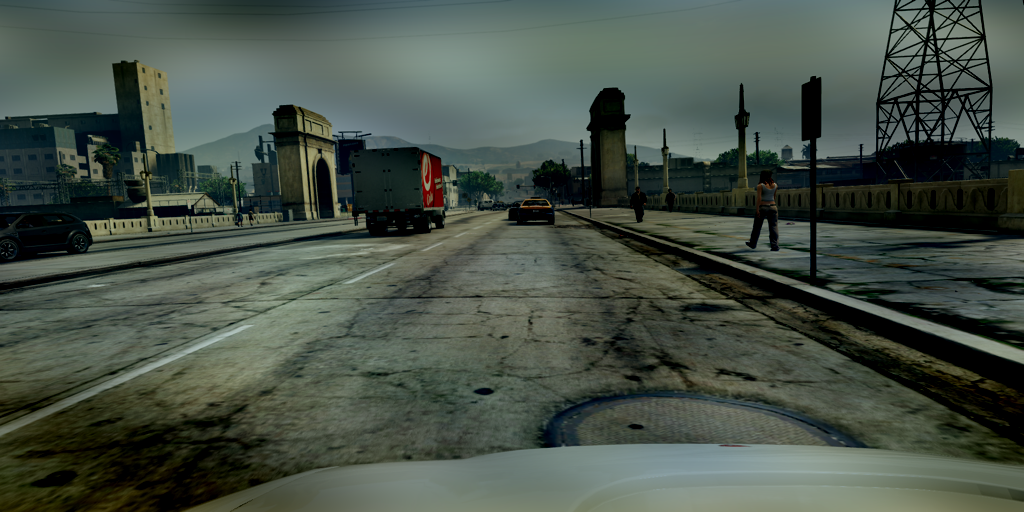
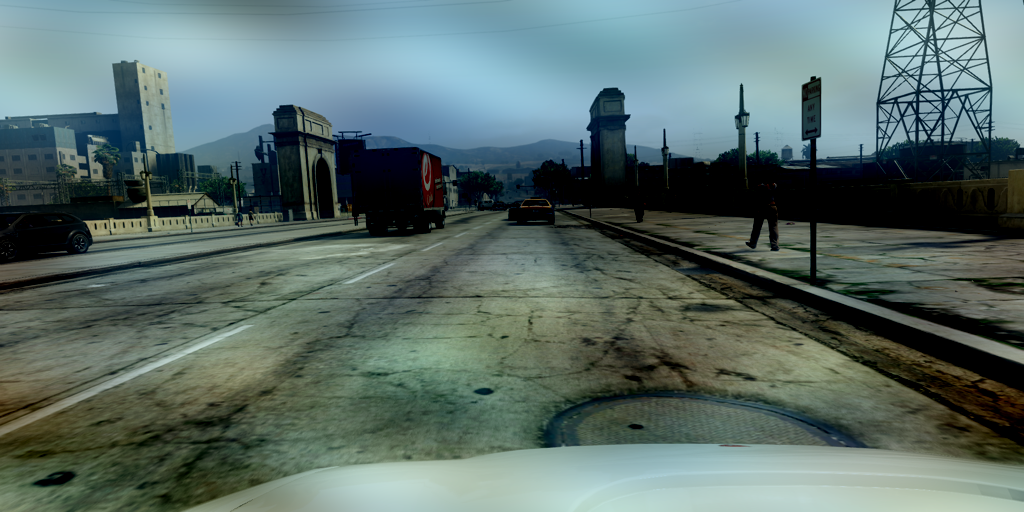
tensorboard visualization for source and target image implemented

diff --git a/robustness_check/train_with_c_driving.py b/robustness_check/train_with_c_driving.py
@@ -2,7 +2,6 @@
 
 import numpy as np
 from options.train_options_C_Driving import TrainOptions
-from options.train
 from utils.timer import Timer
 import os
 from data import CreateSrcDataLoader_with_C_Driving_Cropsize
@@ -16,6 +15,8 @@ from utils import FDA_source_to_target
 import scipy.io as sio
 from torch.utils.tensorboard import SummaryWriter
 from utils.mIoU_utils import compute_mIoU
+from utils.torch_utils import draw_in_tensorboard, load_model_and_optimizer
+from utils.viz_segmask import colorize_mask
 import shutil
 
 SRC_IMG_MEAN = np.array((104.00698793, 116.66876762, 122.67891434), dtype=np.float32)
@@ -26,6 +27,7 @@ CS_weights = np.array((1.0, 1.0, 1.0, 1.0, 1.0, 1.0, 1.0, 1.0, 1.0, 1.0, 1.0,
                        1.0, 1.0, 1.0, 1.0, 1.0, 1.0, 1.0, 1.0), dtype=np.float32)
 CS_weights = torch.from_numpy(CS_weights)
 
+import scipy.misc
 
 def main():
 
@@ -48,14 +50,26 @@ def main():
     model, optimizer = CreateModel(args)
 
     start_iter = 0
-    if args.restore_from is not None:
-        start_iter = int(args.restore_from.rsplit('/', 1)[1].rsplit('_')[1])
+    if args.restore_model_optimizer_from is not None: # when to resume the training given ckeckpoint
+        start_iter = int(args.restore_model_optimizer_from.split('_')[-1].split('.')[0]) # extract the information of the iteration
+        checkpoint = torch.load(os.path.join(args.snapshot_dir, args.restore_model_optimizer_from))
+        load_model_and_optimizer(model, optimizer, checkpoint)
+        """
+        optimizer.load_state_dict(checkpoint['optimizer_state_dict'])
+        for state in optimizer.state.values():
+            for k, v in state.items():
+                if isinstance(v, torch.Tensor):
+                    state[k] = v.cuda()
+        model.load_state_dict(checkpoint['model_state_dict'])
+        """
+
 
     cudnn.enabled = True
     cudnn.benchmark = True
 
     model.train()
     model.cuda()
+
 
     # losses to log
     loss = ['loss_seg_src', 'loss_seg_trg']
@@ -69,14 +83,17 @@ def main():
 
     # prepare directories for saving the training and val-loss log files for tensorboard
     root_log_dir = os.path.join(args.tensorboard_log_dir, 'SingleNode_LB_'+str(args.LB).replace('.', '_') + '_%s_FDA_%s' %(args.weather, args.FDA_mode))
-    if os.path.isdir(root_log_dir):
-        shutil.rmtree(root_log_dir) # remove the existing log files from previous run
+    if os.path.isdir(root_log_dir) and args.restore_model_optimizer_from is None:
+        shutil.rmtree(root_log_dir) # if the log dir already exists and the restoration is not required then remove the existing log files and start logging from the beginning
 
+    # initialize the writers for tensorboard visualization
     train_log_dir = os.path.join( root_log_dir,'train(src seg loss)')
     val_log_dir = os.path.join(root_log_dir ,'val(tar seg loss)')
     mIoU_log_dir = os.path.join(root_log_dir,'mIoU(tar loss)')
+    image_log_dir = os.path.join(root_log_dir, 'image')
+
     os.makedirs(train_log_dir, exist_ok=True), os.makedirs(val_log_dir, exist_ok=True), os.makedirs(mIoU_log_dir, exist_ok=True)
-    train_loss_writer, val_loss_writer, mIoU_loss_writer = SummaryWriter(log_dir= train_log_dir), SummaryWriter(log_dir= val_log_dir), SummaryWriter(log_dir=mIoU_log_dir)
+    train_loss_writer, val_loss_writer, mIoU_loss_writer, image_writer = SummaryWriter(log_dir= train_log_dir), SummaryWriter(log_dir= val_log_dir), SummaryWriter(log_dir=mIoU_log_dir), SummaryWriter(log_dir=image_log_dir)
     #val_loss_writer = SummaryWriter(log_dir= val_log_dir)
 
     _t['iter time'].tic()
@@ -154,6 +171,9 @@ def main():
             train_loss_writer.add_scalar('loss', loss_train, global_step= (i+1) )
             #val_loss_writer.add_scalar('loss', loss_val, global_step=(i + 1))
 
+            draw_in_tensorboard(image_writer, src_in_trg, i + 1, src_seg_score, args.num_classes, 'src')
+            draw_in_tensorboard(image_writer, trg_in_trg, i + 1, trg_seg_score, args.num_classes, 'trg')
+
             loss_train = 0.0
             loss_val = 0.0
 
@@ -164,11 +184,13 @@ def main():
 
         if (i + 1) % args.save_pred_every == 0:
             print('taking snapshot ...')
-            torch.save(model.state_dict(), os.path.join(args.snapshot_dir, '%s_2_%s_LB_%s_%s_FDA_%s_iter_' % (args.source, args.target, str(args.LB).replace('.', '_'), args.weather, args.FDA_mode) + str(i + 1) + '.pth'))
+            checkpoint = {'model_state_dict': model.state_dict(), 'optimizer_state_dict' : optimizer.state_dict()}
+            torch.save(checkpoint, os.path.join(args.snapshot_dir, '%s_2_%s_LB_%s_%s_FDA_%s_iter_' % (args.source, args.target, str(args.LB).replace('.', '_'), args.weather, args.FDA_mode) + str(i + 1) + '.pth'))
 
             loss_mIoU19 = compute_mIoU(val_targetloader, TRG_IMG_MEAN, model, args.devkit_dir)  # for every (args.save_pred_every)-iteration, evaluate the network performance(mIoU) with validation set
             mIoU_loss_writer.add_scalar('mIoU19', loss_mIoU19, global_step=(i + 1))
             print('[it %d][trg mIoU19 %.4f]' % (i + 1, loss_mIoU19))
+
 
     train_loss_writer.close()
     val_loss_writer.close()
@@ -178,8 +200,22 @@ if __name__ == '__main__':
 
     main()
 
-# command(at /media/data/hlim/FDA/FDA)
-# ##  python3 robustness_check/train_with_c_dving.py --LB=0.01 --entW=0.005 --ita=2.0 --switch2entropy=0 --FDA_mode='on'
+##------------------------------------------------------------------------------------##
+
+# command for training new model (at /media/data/hlim/FDA/FDA)
+###e.g python3 robustness_check/train_with_c_dving.py --LB=0.01 --entW=0.005 --ita=2.0 --switch2entropy=0 --FDA_mode='on' --weather='cloudy'
+
+# command to resume the training given checkpoint file (at /media/data/hlim/FDA/FDA)
+### python3 robustness_check/train_with_c_driving.py --LB=0.01 --entW=0.005 --ita=2.0 --switch2entropy=0 --FDA_mode='on' --weather='cloudy' --restore-model-optimizer-from='NAME_OF_CHECKPOINT FILE UNDER #args.snapshot-dir#'
+### e.g python3 robustness_check/train_with_c_driving.py --LB=0.01 --entW=0.005 --ita=2.0 --switch2entropy=0 --FDA_mode='on' --weather='cloudy' --restore-model-optimizer-from='gta5_2_c_driving_LB_0_01_cloudy_FDA_on_iter_65000.pth'
+
+
 
 # command for tensorboard
 ### tensorboard --logdir=../checkpoints/FDA/"NAME_OF_FOLDER_WHERE_LOG_FILES_ARE"
+### e.g tensorboard --logdir=../checkpoints/FDSingleNode_LB_0_01_cloudy_FDA_on/
+
+
+
+
+##------------------------------------------------------------------------------------##

diff --git a/utils/torch_utils.py b/utils/torch_utils.py
@@ -1,0 +1,38 @@
+# Created by Hojun Lim(Media Informatics, 405165) at 04.09.20
+
+from torchvision.utils import make_grid
+import torch.nn.functional as F
+from torch import nn
+import torch
+import numpy as np
+from utils.viz_segmask import colorize_mask
+
+
+def draw_in_tensorboard(writer, images, i_iter, pred_main, num_classes, type_):
+    images = torch.flip(images, [1]) # restore RGB channel from BGR
+
+    grid_image = make_grid(images.clone().cpu().data, 3, normalize=True)
+    writer.add_image(f'Image - {type_}', grid_image, i_iter)
+
+    grid_image = make_grid(torch.from_numpy(np.array(colorize_mask(np.asarray(
+        np.argmax(F.softmax(pred_main).cpu().data[0].numpy().transpose(1, 2, 0),
+                  axis=2), dtype=np.uint8)).convert('RGB')).transpose(2, 0, 1)), 3,
+                           normalize=False, range=(0, 255))
+    writer.add_image(f'Prediction - {type_}', grid_image, i_iter)
+
+    output_sm = F.softmax(pred_main).cpu().data[0].numpy().transpose(1, 2, 0)
+    output_ent = np.sum(-np.multiply(output_sm, np.log2(output_sm)), axis=2,
+                        keepdims=False)
+    grid_image = make_grid(torch.from_numpy(output_ent), 3, normalize=True,
+                           range=(0, np.log2(num_classes)))
+    writer.add_image(f'Entropy - {type_}', grid_image, i_iter)
+
+def load_model_and_optimizer(model, optimizer, checkpoint):
+    optimizer.load_state_dict(checkpoint['optimizer_state_dict'])
+    for state in optimizer.state.values():
+        for k, v in state.items(): # send all variables in optimizer to gpu
+            print(k)
+            if isinstance(v, torch.Tensor):
+                state[k] = v.cuda()
+
+    model.load_state_dict(checkpoint['model_state_dict'])

diff --git a/utils/viz_segmask.py b/utils/viz_segmask.py
@@ -1,0 +1,21 @@
+# Created by Hojun Lim(Media Informatics, 405165) at 04.09.20
+
+import numpy as np
+from PIL import Image
+
+palette = [128, 64, 128, 244, 35, 232, 70, 70, 70, 102, 102, 156,
+           190, 153, 153, 153, 153, 153, 250,
+           170, 30,
+           220, 220, 0, 107, 142, 35, 152, 251, 152,
+           70, 130, 180, 220, 20, 60, 255, 0, 0, 0, 0,
+           142, 0, 0, 70,
+           0, 60, 100, 0, 80, 100, 0, 0, 230, 119, 11, 32]
+zero_pad = 256 * 3 - len(palette)
+for i in range(zero_pad):
+    palette.append(0)
+
+def colorize_mask(mask):
+    # mask: numpy array of the mask
+    new_mask = Image.fromarray(mask.astype(np.uint8)).convert('P')
+    new_mask.putpalette(palette)
+    return new_mask

diff --git a/options/train_options_C_Driving.py b/options/train_options_C_Driving.py
@@ -49,6 +49,7 @@ class TrainOptions():
         parser.add_argument("--num-classes", type=int, default=19, help="Number of classes for cityscapes.")
         parser.add_argument("--init-weights", type=str, default='../checkpoints/FDA/init_weight/DeepLab_init.pth', help="initial model.")
         parser.add_argument("--restore-from", type=str, default=None, help="Where restore model parameters from.")
+        parser.add_argument("--restore-model-optimizer-from", type=str, default=None, help="Where restore model parameters from.")
 
         parser.add_argument("--save-pred-every", type=int, default=2500,
                             help="Save summaries and checkpoint every often.")

diff --git a/FDA_demo.py b/FDA_demo.py
@@ -19,4 +19,3 @@ src_in_trg = FDA_source_to_target_np( im_src, im_trg, L=0.01 )
 
 src_in_trg = src_in_trg.transpose((1,2,0))
 scipy.misc.toimage(src_in_trg, cmin=0.0, cmax=255.0).save('demo_images/src_in_tar.png')
-
